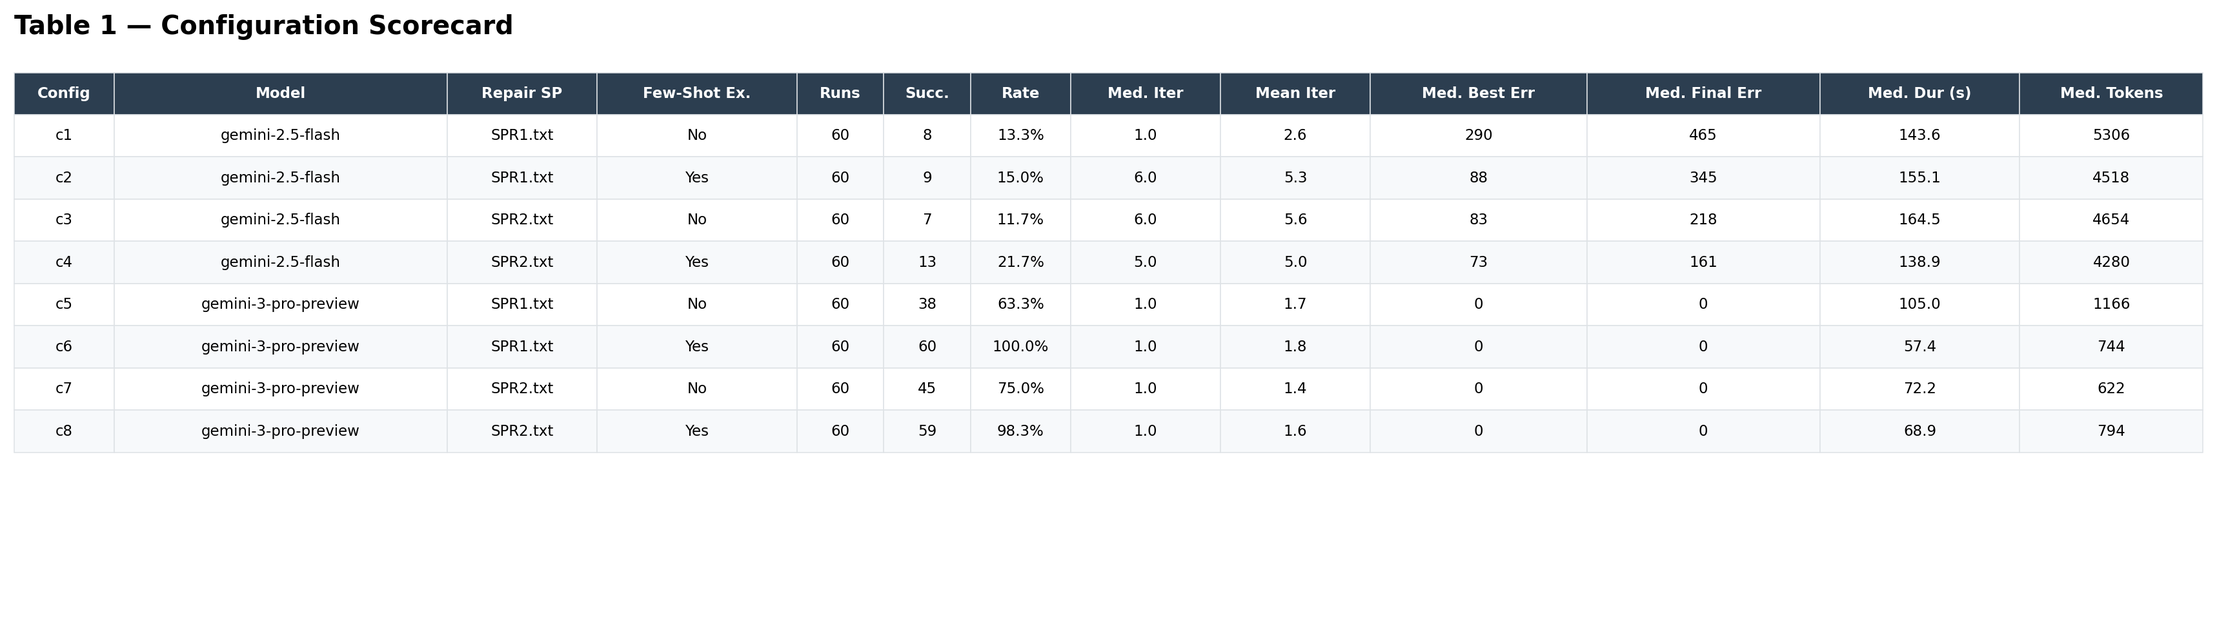
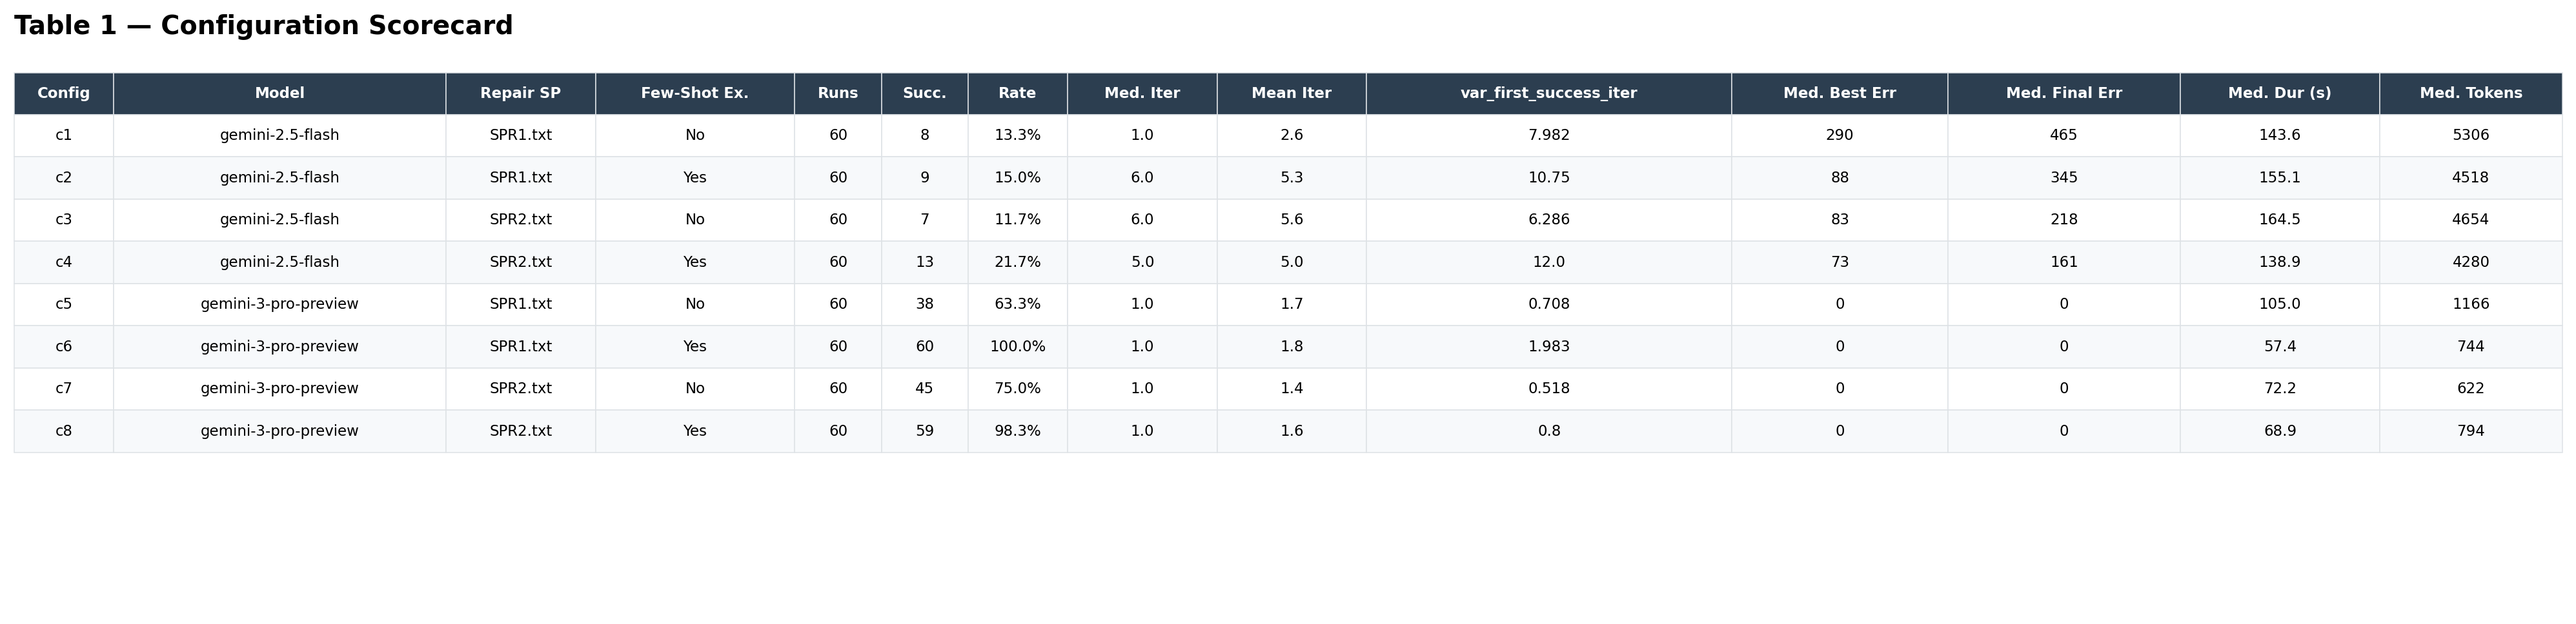
handling Alberto's comments + retriving the deleted files

diff --git a/Utils/run_factorial_analysis.py b/Utils/run_factorial_analysis.py
@@ -1,0 +1,249 @@
+import pandas as pd
+import matplotlib.pyplot as plt
+import seaborn as sns
+import os
+import argparse
+import numpy as np
+from matplotlib.ticker import PercentFormatter
+
+def get_data_path(args):
+    potential_paths = [
+        args.input,
+        'combined_run_histories.csv',
+        '../combined_run_histories.csv',
+        'Report/Histories/combined_run_histories.csv'
+    ]
+    for path in potential_paths:
+        if os.path.exists(path):
+            return path
+    raise FileNotFoundError(f"Could not find data file. Checked paths: {potential_paths}")
+
+def load_and_prep_data(csv_path):
+    """
+    Uses the exact methodology from the friend's script to ensure accurate numbers.
+    Isolates the data to one row per run_id before calculating success.
+    """
+    df = pd.read_csv(csv_path)
+    
+    # Run-level: first iteration row (contains the derived metrics for the whole run)
+    run_df = (
+        df.sort_values(["config_id", "run_id", "iteration"])
+        .drop_duplicates(subset=["run_id"], keep="first")
+        .copy()
+    )
+    
+    # Calculate success identically to friend's script
+    run_df["success_bool"] = run_df["status"].astype(str).eq("success").astype(int)
+    
+    # Clean system prompt (Repair)
+    if 'cfg_system_prompt' in run_df.columns:
+        prompt_col = 'cfg_system_prompt'
+    else:
+        prompt_col = 'system_prompt'
+    run_df['system_prompt_clean'] = run_df[prompt_col].apply(lambda x: str(x).split('/')[-1])
+    
+    # Standardize shots
+    if "few_shots" not in run_df.columns:
+        if "jshots" in run_df.columns:
+            run_df["few_shots"] = run_df["jshots"].map({"yes": "Yes", "no": "No"}).fillna("No")
+        elif "repair_shots" in run_df.columns:
+            run_df["few_shots"] = run_df["repair_shots"].apply(
+                lambda v: "Yes" if pd.to_numeric(v, errors="coerce") > 0 else "No"
+            )
+    else:
+        run_df["few_shots"] = run_df["few_shots"].astype(str).str.strip()
+        
+    # Ensure numeric columns for behavioral analysis
+    numeric_cols = ['derived_first_success_iteration', 'derived_regression_steps', 'derived_monotonicity_ratio']
+    for col in numeric_cols:
+        if col in run_df.columns:
+            run_df[col] = pd.to_numeric(run_df[col], errors='coerce')
+            
+    return run_df
+
+def main():
+    parser = argparse.ArgumentParser(description='Run cross-comparative factorial analysis.')
+    parser.add_argument('--input', type=str, default='Report/Histories/combined_run_histories.csv')
+    parser.add_argument('--output_dir', type=str, default='Report/Figures/')
+    args = parser.parse_args()
+
+    os.makedirs(args.output_dir, exist_ok=True)
+    
+    try:
+        data_path = get_data_path(args)
+        run_df = load_and_prep_data(data_path)
+    except FileNotFoundError as e:
+        print(f"Error: {e}")
+        return
+
+    sns.set_theme(style="whitegrid")
+    custom_palette = ["#d8b3e0", "#5c4f8a"]
+
+    # =========================================================================
+    # PART 1: CROSS-COMPARATIVE ANALYSIS (MOTIVATIONS FOR THE STUDY)
+    # Goal: "Yes it works, but why, and what should future improvements focus on?"
+    # =========================================================================
+    print("Generating Part 1: Cross-Comparative Analysis Figures...")
+    
+    # --- Plot 1.1: Isolated Main Effects (What to focus on) ---
+    
+    # 1. Prepare Model Effect Data
+    model_effect = run_df.groupby('model')['success_bool'].mean().reset_index()
+    model_effect['model_clean'] = model_effect['model'].str.replace('gemini-', '').str.replace('-preview', '')
+
+    # 2. Prepare Shot Effect Data (Overall + By Model)
+    shot_overall = run_df.groupby('few_shots')['success_bool'].mean().reset_index()
+    shot_overall['Model Split'] = 'Overall Average'
+    shot_model = run_df.groupby(['few_shots', 'model'])['success_bool'].mean().reset_index()
+    shot_model['Model Split'] = shot_model['model'].str.replace('gemini-', '').str.replace('-preview', '')
+    shot_plot_df = pd.concat([shot_overall, shot_model.drop(columns=['model'])], ignore_index=True)
+
+    # 3. Prepare Prompt Effect Data (Overall + By Model)
+    prompt_overall = run_df.groupby('system_prompt_clean')['success_bool'].mean().reset_index()
+    prompt_overall['Model Split'] = 'Overall Average'
+    prompt_model = run_df.groupby(['system_prompt_clean', 'model'])['success_bool'].mean().reset_index()
+    prompt_model['Model Split'] = prompt_model['model'].str.replace('gemini-', '').str.replace('-preview', '')
+    prompt_plot_df = pd.concat([prompt_overall, prompt_model.drop(columns=['model'])], ignore_index=True)
+
+    hue_order = ['Overall Average', '2.5-flash', '3-pro']
+
+    # --- FIGURE 1A: Model Capability Impact ---
+    plt.figure(figsize=(6, 6))
+    ax0 = sns.barplot(data=model_effect, x='model_clean', y='success_bool', palette="Blues")
+    # ax0.set_title('Model Capability Impact', fontsize=12, pad=15)
+    ax0.set_ylabel('Average Success Rate')
+    ax0.set_xlabel('Model')
+    ax0.yaxis.set_major_formatter(PercentFormatter(1.0))
+    ax0.set_ylim(0, 1.1)
+    
+    for p in ax0.patches:
+        height = p.get_height()
+        if pd.notna(height) and height > 0:
+            ax0.annotate(f"{height:.1%}", (p.get_x() + p.get_width() / 2., height),
+                        ha='center', va='bottom', fontsize=9, xytext=(0, 4), textcoords='offset points')
+            
+    plt.savefig(os.path.join(args.output_dir, 'fig_1a_model_capability.png'), bbox_inches='tight', dpi=300)
+    plt.close()
+
+    # --- FIGURE 1B: Few-Shot Context Impact ---
+    plt.figure(figsize=(8, 6))
+    ax1 = sns.barplot(data=shot_plot_df, x='few_shots', y='success_bool', hue='Model Split', hue_order=hue_order, palette="Greens")
+    # ax1.set_title('Few-Shot Context Impact', fontsize=12, pad=15)
+    ax1.set_ylabel('Average Success Rate') # Added missing y-label since it's no longer shared
+    ax1.set_xlabel('Few Shots')
+    ax1.yaxis.set_major_formatter(PercentFormatter(1.0))
+    ax1.set_ylim(0, 1.1)
+    
+    for p in ax1.patches:
+        height = p.get_height()
+        if pd.notna(height) and height > 0:
+            ax1.annotate(f"{height:.1%}", (p.get_x() + p.get_width() / 2., height),
+                        ha='center', va='bottom', fontsize=9, xytext=(0, 4), textcoords='offset points', rotation=45)
+            
+    ax1.legend(title='Scope', loc='upper left', fontsize=9)
+    plt.savefig(os.path.join(args.output_dir, 'fig_1b_few_shot_impact.png'), bbox_inches='tight', dpi=300)
+    plt.close()
+
+    # --- FIGURE 1C: System Prompt Tuning Impact ---
+    plt.figure(figsize=(8, 6))
+    ax2 = sns.barplot(data=prompt_plot_df, x='system_prompt_clean', y='success_bool', hue='Model Split', hue_order=hue_order, palette="Oranges")
+    # ax2.set_title('System Prompt Tuning Impact', fontsize=12, pad=15)
+    ax2.set_ylabel('Average Success Rate') # Added missing y-label
+    ax2.set_xlabel('Repair System Prompt')
+    ax2.yaxis.set_major_formatter(PercentFormatter(1.0))
+    ax2.set_ylim(0, 1.1)
+    
+    for p in ax2.patches:
+        height = p.get_height()
+        if pd.notna(height) and height > 0:
+            ax2.annotate(f"{height:.1%}", (p.get_x() + p.get_width() / 2., height),
+                        ha='center', va='bottom', fontsize=9, xytext=(0, 4), textcoords='offset points', rotation=45)
+            
+    ax2.legend(title='Scope', loc='upper left', fontsize=9)
+    plt.savefig(os.path.join(args.output_dir, 'fig_1c_system_prompt_impact.png'), bbox_inches='tight', dpi=300)
+    plt.close()
+
+    # --- Plot 1.2: Factorial Synergy (All Configs) ---
+    plt.figure(figsize=(12, 6))
+    g = sns.catplot(
+        data=run_df, kind="bar", x="model", y="success_bool", hue="few_shots", 
+        col="system_prompt_clean", height=5, aspect=1.2, errorbar=None, palette=custom_palette
+    )
+    g.set_axis_labels("Model", "Success Rate")
+    g.set_titles("Repair Prompt: {col_name}")
+    g.fig.suptitle("Config Synergy: Model × Few-Shot × Prompt", y=1.05, fontsize=16)
+    g._legend.set_title("Few Shots")
+    
+    for ax in g.axes.flat:
+        ax.set_ylim(0, 1.1)
+        ax.yaxis.set_major_formatter(PercentFormatter(1.0))
+        for p in ax.patches:
+            if p.get_height() > 0:
+                ax.annotate(f"{p.get_height():.1%}", (p.get_x() + p.get_width() / 2., p.get_height()),
+                            ha='center', va='bottom', fontsize=10, xytext=(0, 5), textcoords='offset points')
+                
+    plt.savefig(os.path.join(args.output_dir, 'fig_2_factorial_success_rate.png'), bbox_inches='tight', dpi=300)
+    plt.close('all')
+
+    # --- Plot 1.3: Efficiency of Repair (Iterations to Success) ---
+    # Only look at runs that actually succeeded
+    success_df = run_df[run_df['success_bool'] == 1].copy()
+    if not success_df.empty and 'derived_first_success_iteration' in success_df.columns:
+        plt.figure(figsize=(10, 6))
+        sns.boxplot(
+            data=success_df, x="model", y="derived_first_success_iteration", 
+            hue="few_shots", palette=custom_palette
+        )
+        plt.title('Repair Efficiency: Iterations Required to Reach Validation (Successful Runs)', fontsize=14)
+        plt.ylabel('Iterations to Success')
+        plt.xlabel('Model')
+        plt.legend(title="Few Shots")
+        plt.savefig(os.path.join(args.output_dir, 'fig_3_repair_efficiency.png'), bbox_inches='tight', dpi=300)
+        plt.close('all')
+
+    # --- Plot 1.4: "Why it fails" - Reasoning Stability / Regression Steps ---
+    # Comparing how many times the model made the code WORSE during its iteration attempts
+    if 'derived_regression_steps' in run_df.columns:
+        plt.figure(figsize=(10, 6))
+        sns.barplot(
+            data=run_df, x="model", y="derived_regression_steps", 
+            hue="few_shots", errorbar=('ci', 95), palette="Reds"
+        )
+        plt.title('Reasoning Stability: Average Regression Steps per Run\n(Lower is better: indicates model is not breaking existing logic)', fontsize=14)
+        plt.ylabel('Avg Count of Regressions (Making Error Score Worse)')
+        plt.xlabel('Model')
+        plt.legend(title="Few Shots")
+        plt.savefig(os.path.join(args.output_dir, 'fig_4_reasoning_stability.png'), bbox_inches='tight', dpi=300)
+        plt.close('all')
+
+
+    # =========================================================================
+    # PART 2: GENERATIVE BASELINE EFFECTS
+    # =========================================================================
+    print("Generating Part 2: Generative Baseline Analysis Figures...")
+    
+    run_df['gen_scenario_clean'] = run_df['scenario'].apply(lambda x: str(x).replace('.txt', '').replace('Scenario_', 'S'))
+    run_df['gen_prompt_clean'] = run_df['system_prompt'].apply(lambda x: str(x).replace('.txt', ''))
+    
+    baseline_table = run_df.groupby(['gen_prompt_clean', 'gen_scenario_clean']).agg(
+        Total_Runs=('success_bool', 'count'),
+        Success_Rate=('success_bool', 'mean')
+    ).reset_index()
+    
+    pivot_success = baseline_table.pivot(index='gen_prompt_clean', columns='gen_scenario_clean', values='Success_Rate')
+    
+    plt.figure(figsize=(8, 5))
+    sns.heatmap(
+        pivot_success, annot=True, fmt=".0%", cmap="RdYlGn", 
+        vmin=0, vmax=1, linewidths=0.5, cbar_kws={'label': 'Success Rate'}
+    )
+    plt.title('Generative Baseline Fixability (Prompt × Scenario)', fontsize=14, pad=15)
+    plt.ylabel('Generative System Prompt')
+    plt.xlabel('Scenario')
+    plt.savefig(os.path.join(args.output_dir, 'fig_5_baseline_heatmap.png'), bbox_inches='tight', dpi=300)
+    plt.close('all')
+    
+    print("Done! All analysis figures exported to Report/Figures-v2/")
+
+if __name__ == "__main__":
+    main()

diff --git a/Utils/export_run_tables.py b/Utils/export_run_tables.py
@@ -159,6 +159,40 @@ def _table_study_summary(df, run_df):
 # ---------------------------------------------------------------------------
 # Table 1 – Configuration Scorecard
 # ---------------------------------------------------------------------------
+# def _table_config_scorecard(run_df):
+#     import pandas as pd
+#     import numpy as np
+
+#     group_cols = [c for c in ["config_id", "model", "cfg_system_prompt", "few_shots"]
+#                   if c in run_df.columns]
+#     if not group_cols:
+#         group_cols = ["config_id"] if "config_id" in run_df.columns else []
+#     if not group_cols:
+#         return pd.DataFrame()
+
+#     g = (
+#         run_df.groupby(group_cols, as_index=False)
+#         .agg(
+#             runs=("success_bool", "count"),
+#             successes=("success_bool", "sum"),
+#             success_rate=("success_bool", "mean"),
+#             median_first_success_iter=("derived_first_success_iteration", "median"),
+#             mean_first_success_iter=("derived_first_success_iteration", "mean"),
+#             median_best_error_score=("derived_best_error_score", "median"),
+#             median_final_error_score=("derived_final_error_score", "median"),
+#             median_duration_s=("derived_run_duration_seconds", "median"),
+#             median_tokens=("tokens_total", "median"),
+#         )
+#         .sort_values(group_cols)
+#     )
+#     # Round
+#     for c in ["success_rate", "mean_first_success_iter"]:
+#         if c in g.columns:
+#             g[c] = g[c].round(3)
+#     return g
+# ---------------------------------------------------------------------------
+# Table 1 – Configuration Scorecard
+# ---------------------------------------------------------------------------
 def _table_config_scorecard(run_df):
     import pandas as pd
     import numpy as np
@@ -178,6 +212,7 @@ def _table_config_scorecard(run_df):
             success_rate=("success_bool", "mean"),
             median_first_success_iter=("derived_first_success_iteration", "median"),
             mean_first_success_iter=("derived_first_success_iteration", "mean"),
+            var_first_success_iter=("derived_first_success_iteration", "var"),  # Added variance here
             median_best_error_score=("derived_best_error_score", "median"),
             median_final_error_score=("derived_final_error_score", "median"),
             median_duration_s=("derived_run_duration_seconds", "median"),
@@ -186,11 +221,10 @@ def _table_config_scorecard(run_df):
         .sort_values(group_cols)
     )
     # Round
-    for c in ["success_rate", "mean_first_success_iter"]:
+    for c in ["success_rate", "mean_first_success_iter", "var_first_success_iter"]:  # Added to rounding
         if c in g.columns:
             g[c] = g[c].round(3)
     return g
-
 
 # ---------------------------------------------------------------------------
 # Table 2 – Generative Prompt × Scenario Success Matrix
